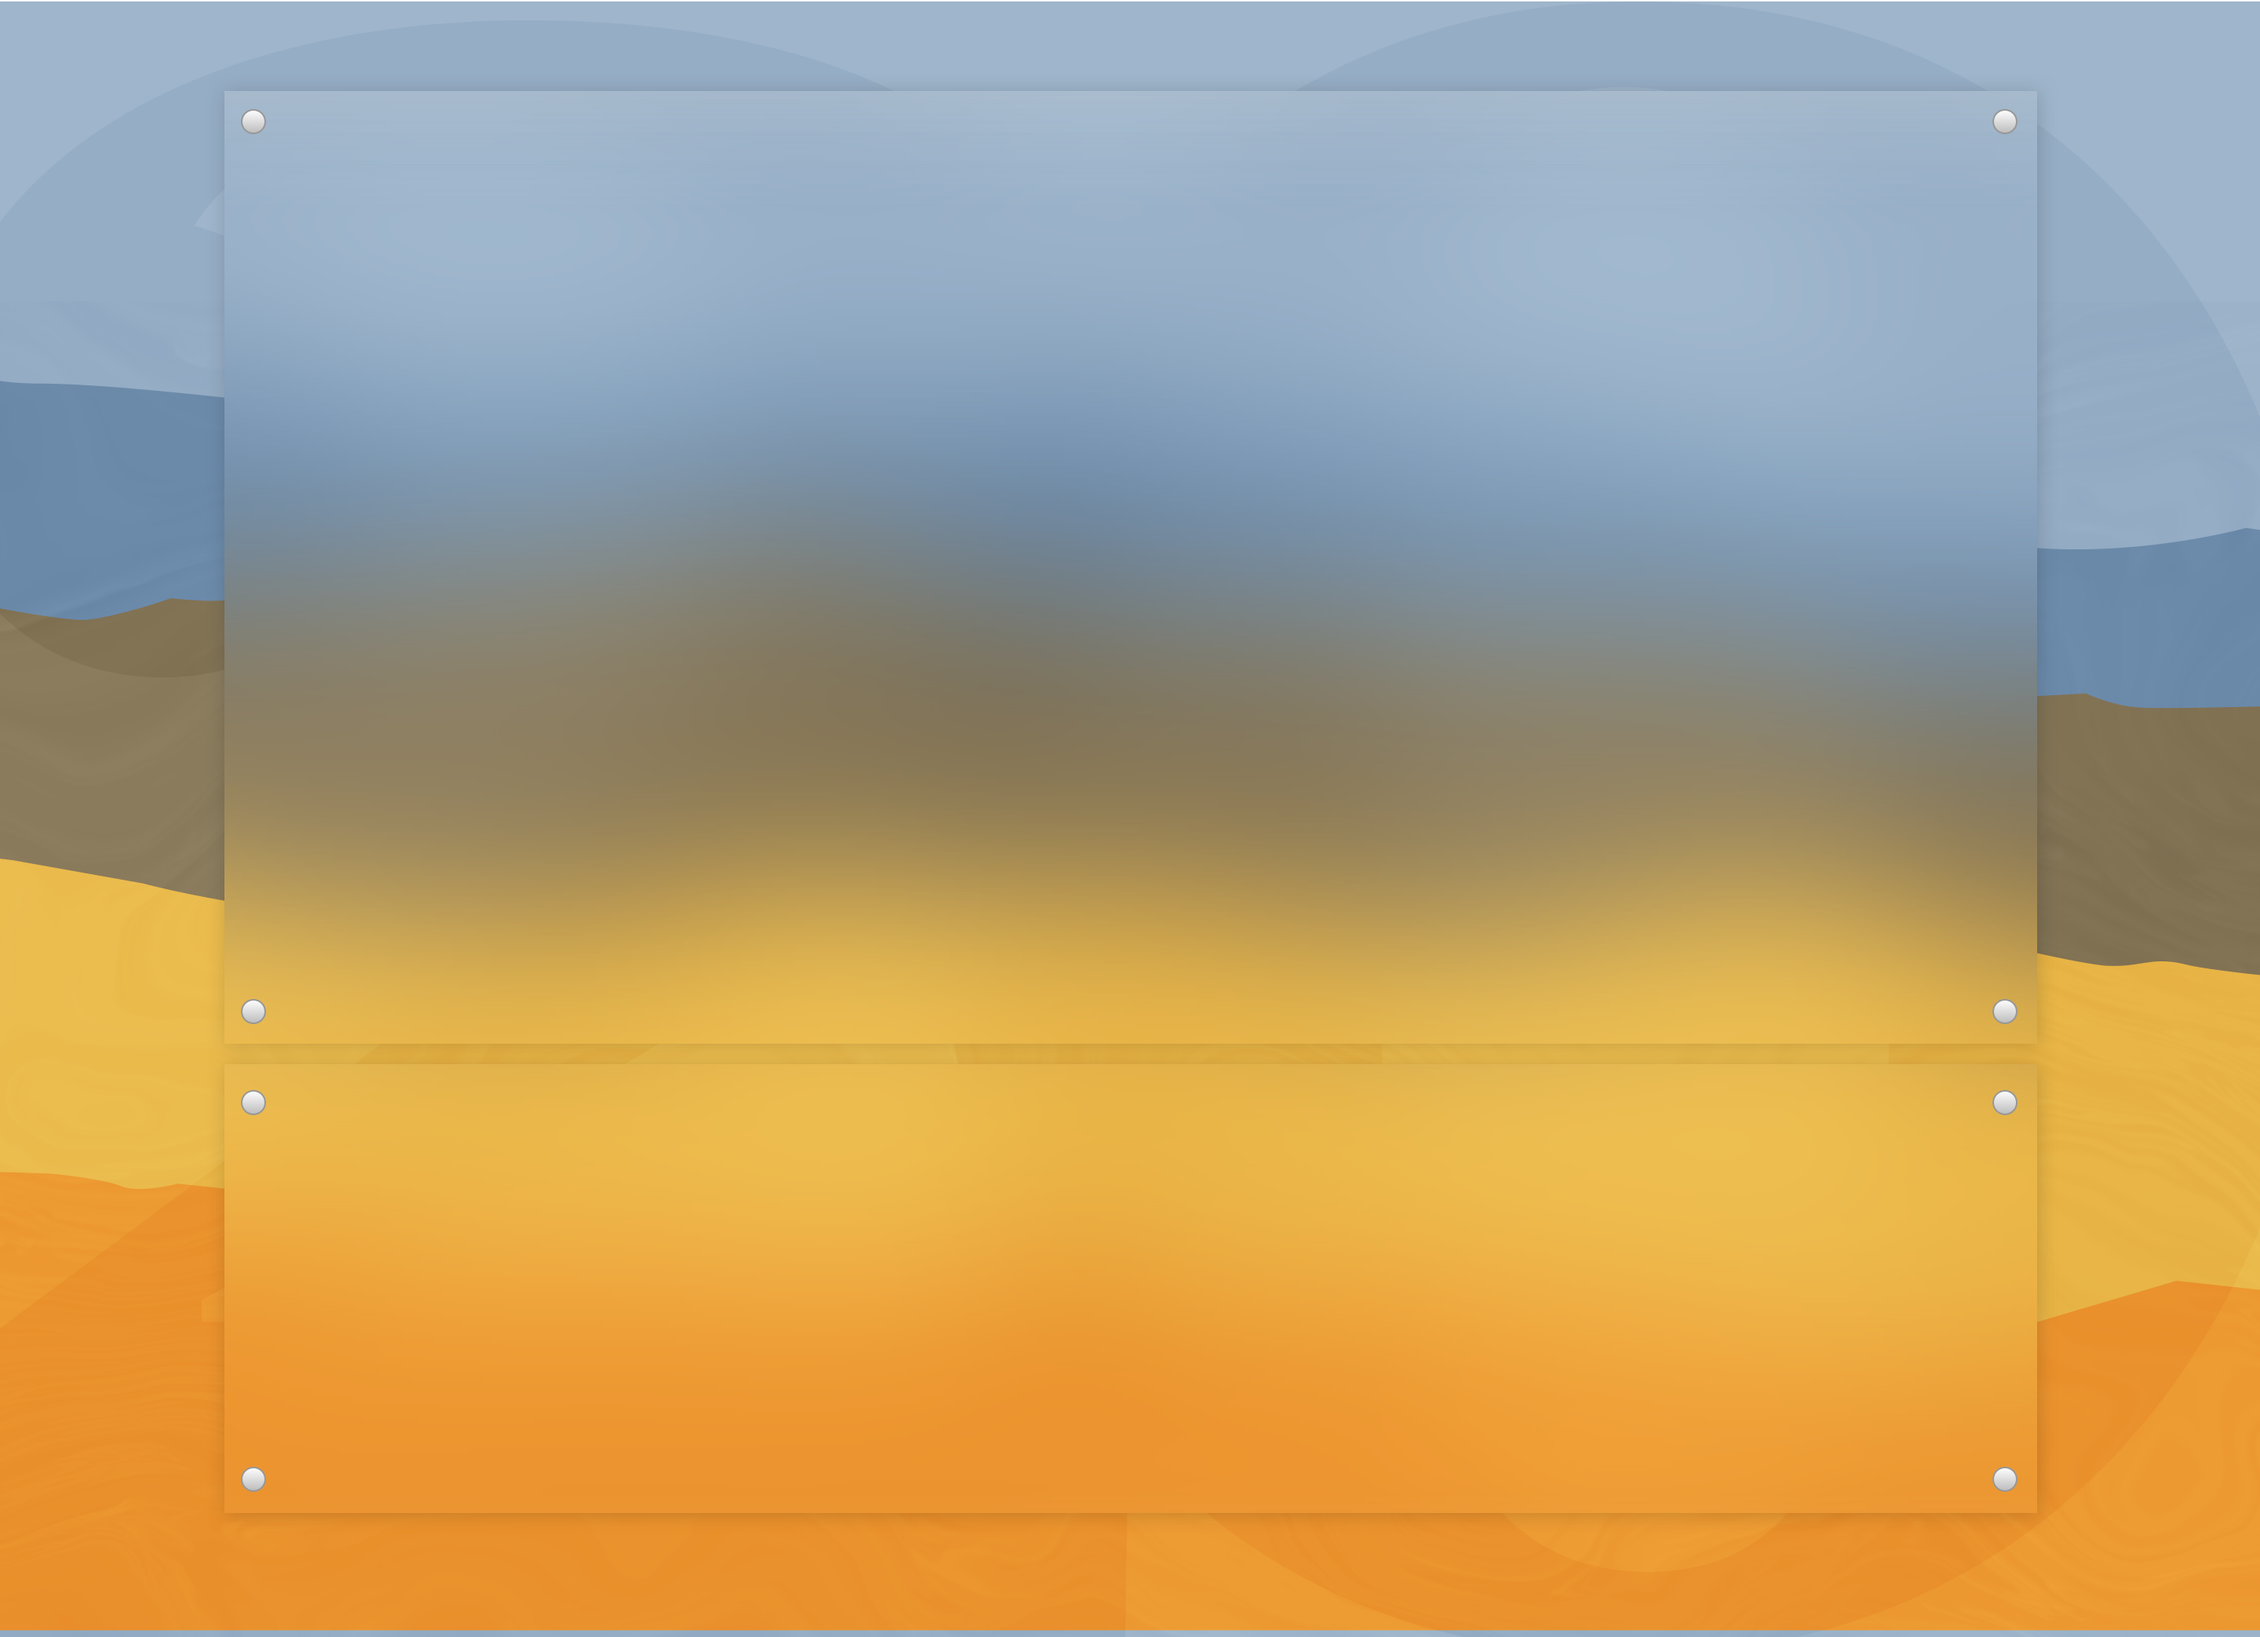
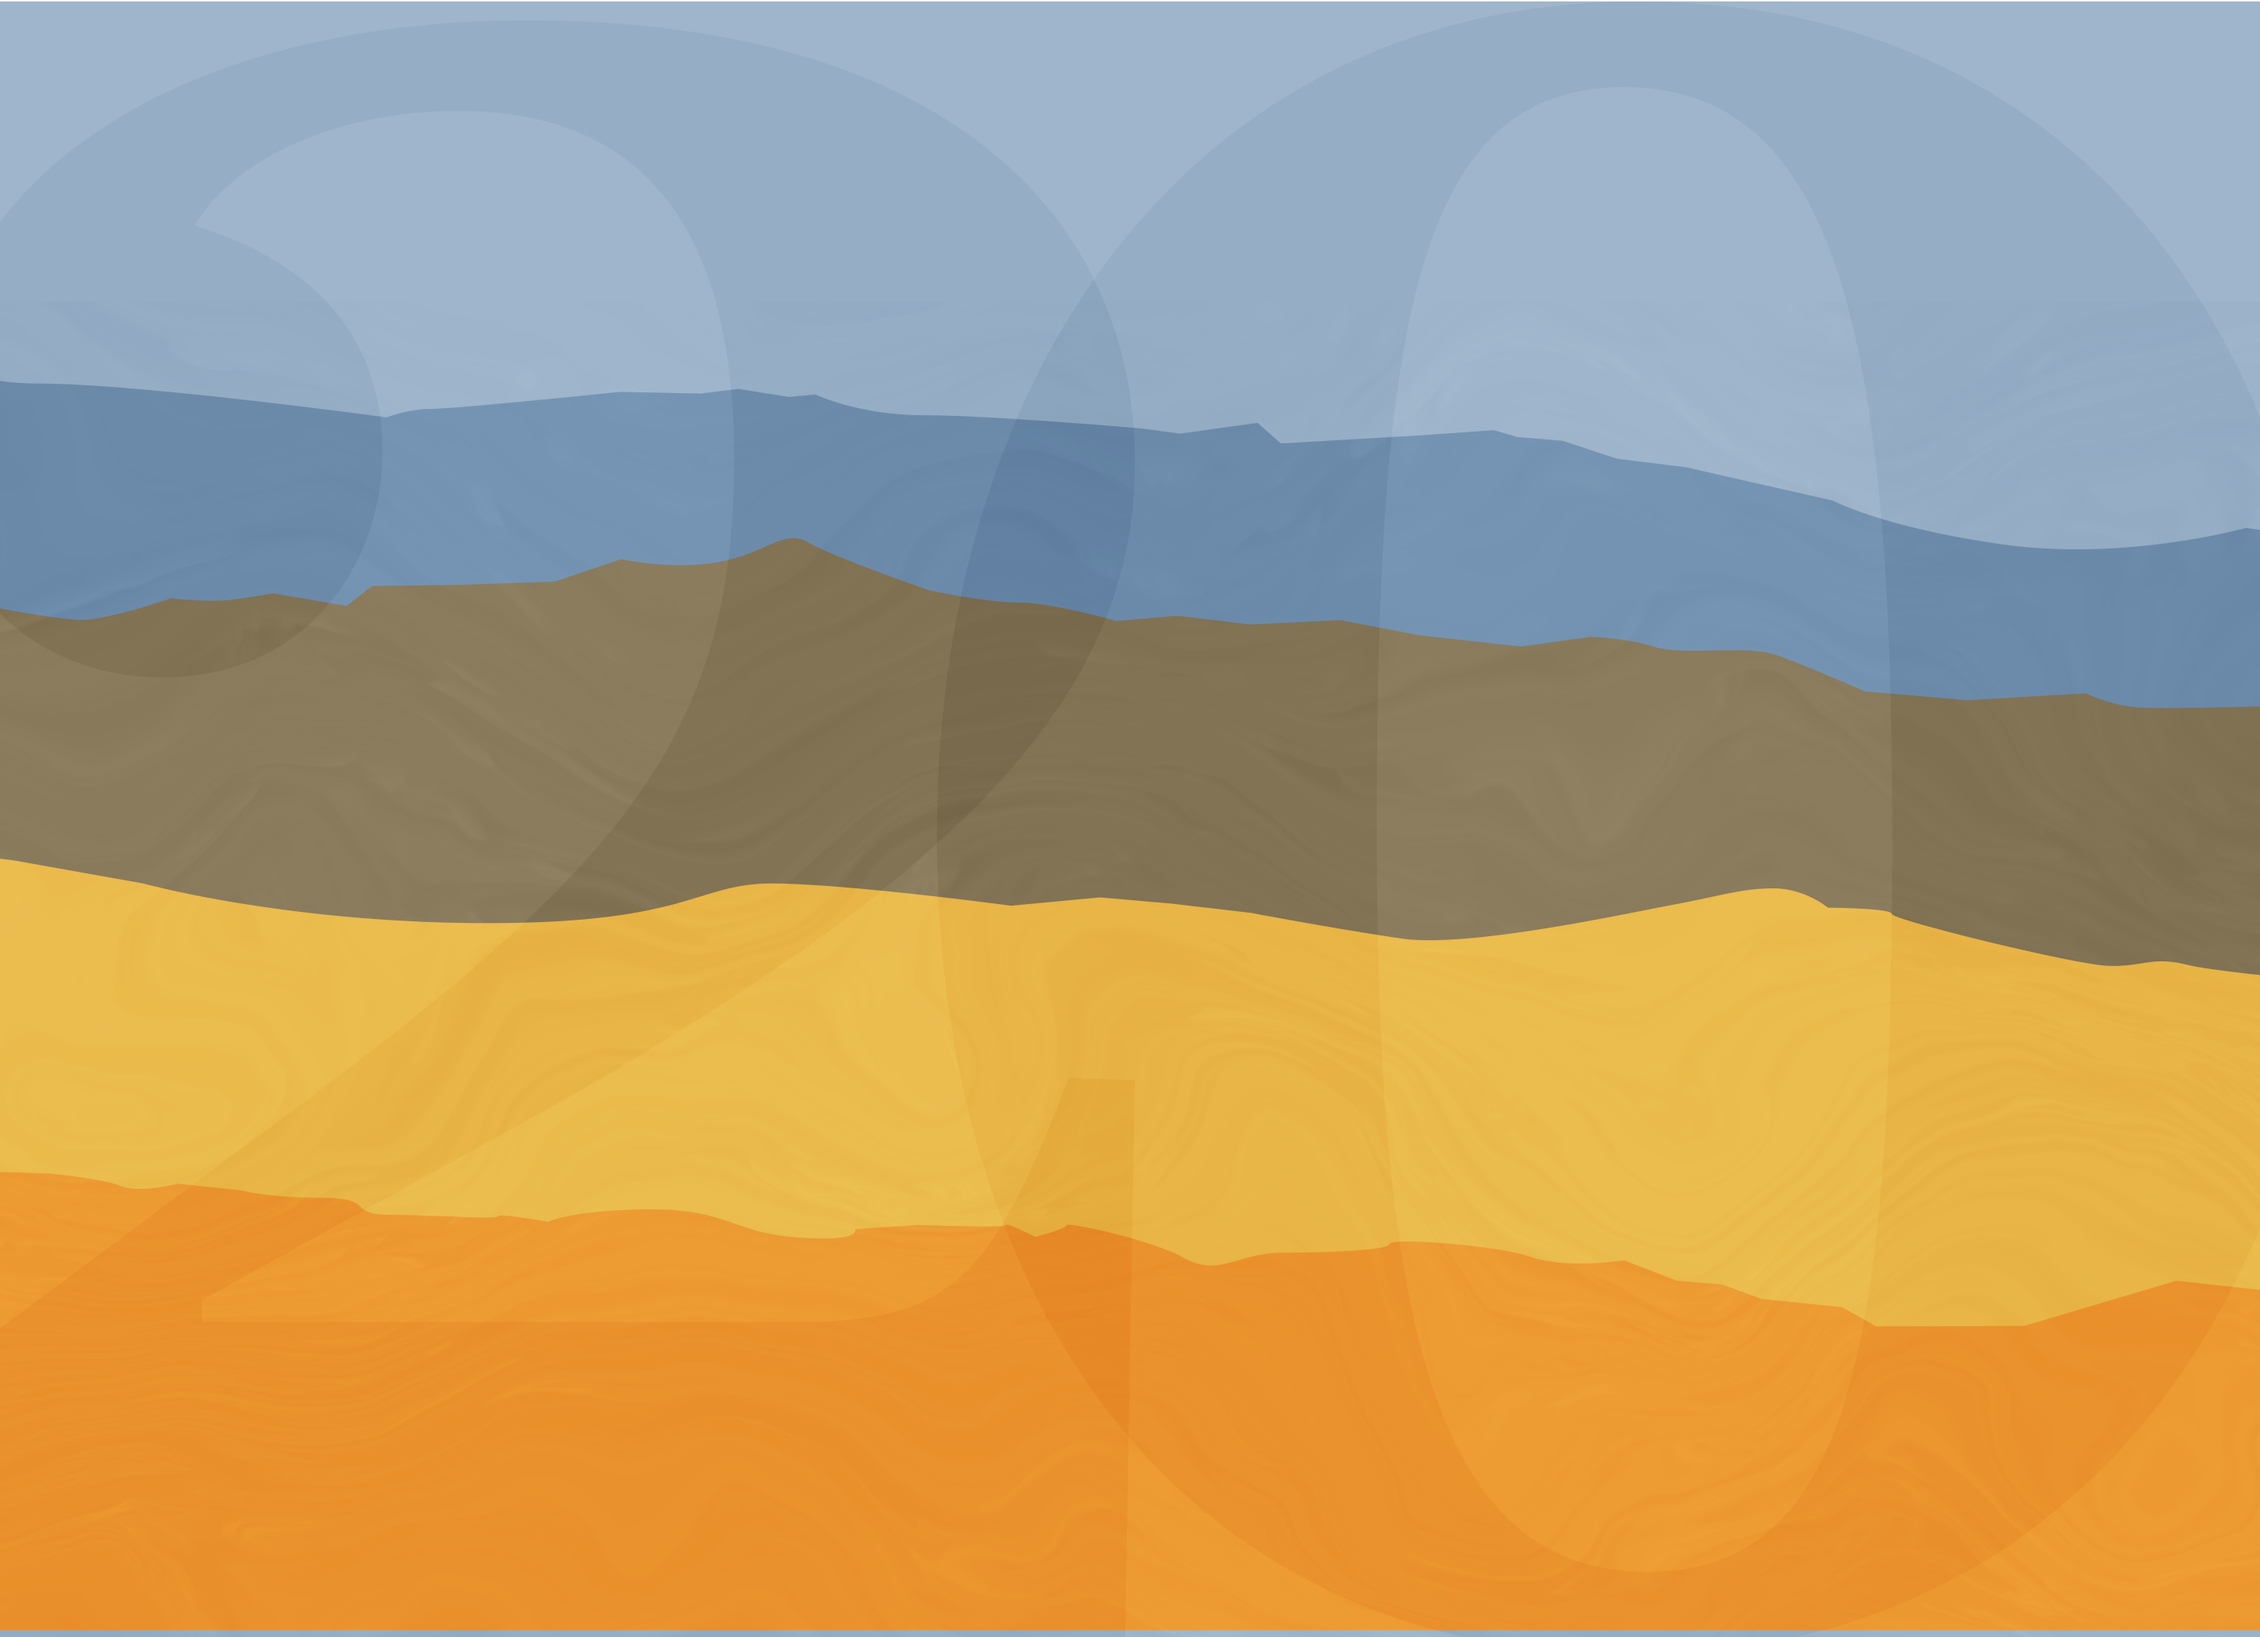
use blurred background for glass

diff --git a/src/app/vision-statement/vision-statement.component.html b/src/app/vision-statement/vision-statement.component.html
@@ -1,16 +1,20 @@
-<div class="vision-statement">
-  <div class="statements">
-    <div class="top first">We can prove that enriched</div>
-    <div class="middle first">human experiences produce stronger</div>
-    <div class="bottom">
-      <span class="first">business results. </span>
-      <span class="second">We are experts in our</span>
-    </div>
-    <div class="top second">solutions, expanding our ripple of</div>
-    <div class="middle">
-      <span class="second">influence. </span>
-      <span class="third">We thrive on growing while</span>
-    </div>
-    <div class="bottom third">staying true to our values.</div>
-  </div>
+<div class="vision-statement glass">
+    <svg width="705px" height="223px" viewBox="0 0 705 223" version="1.1" xmlns="http://www.w3.org/2000/svg" xmlns:xlink="http://www.w3.org/1999/xlink">
+      <defs></defs>
+      <g id="Page-1" stroke="none" stroke-width="1" fill="none" fill-rule="evenodd" font-weight="normal" font-family="ChronicleDeck-Roman, Chronicle Deck" line-spacing="37" letter-spacing="0.186666667" font-size="40">
+          <g id="Home-screen" transform="translate(-339.000000, -748.000000)">
+              <text id="Vision-Statement">
+                  <tspan x="340" y="772" fill="#BE5400">We can prove that enriched</tspan>
+                  <tspan x="340" y="809" fill="#BE5400">    human experiences produce stronger          </tspan>
+                  <tspan x="342.44" y="846" fill="#BE5400">		business results. </tspan>
+                  <tspan x="683.28" y="846" letter-spacing="0.16592592" fill="#285780">We are experts in our </tspan>
+                  <tspan x="340" y="883" letter-spacing="0.16592592" fill="#285780">solutions, expanding our ripple of     </tspan>
+                  <tspan x="342.44" y="920" letter-spacing="0.16592592" fill="#285780">	inﬂuence.</tspan>
+                  <tspan x="536.053333" y="920" letter-spacing="0.16592592" fill="#BE5400"> </tspan>
+                  <tspan x="543.579259" y="920" letter-spacing="0.16592592" fill="#4E4E4E">We thrive on growing while </tspan>
+                  <tspan x="342.44" y="957" letter-spacing="0.16592592" fill="#4E4E4E">									  staying true to our values. </tspan>
+              </text>
+          </g>
+      </g>
+  </svg>
 </div>

diff --git a/src/styles.less b/src/styles.less
@@ -5,15 +5,13 @@
 body {
     margin: 0px;
     padding: 0px;
-    background: rgba(112,138,164,1);
-    background: -moz-linear-gradient(top, rgba(112,138,164,1) 0%, rgba(112,138,164,1) 19%, rgba(239,173,93,1) 89%, rgba(239,173,93,1) 100%);
-    background: -webkit-gradient(left top, left bottom, color-stop(0%, rgba(112,138,164,1)), color-stop(19%, rgba(112,138,164,1)), color-stop(89%, rgba(239,173,93,1)), color-stop(100%, rgba(239,173,93,1)));
-    background: -webkit-linear-gradient(top, rgba(112,138,164,1) 0%, rgba(112,138,164,1) 19%, rgba(239,173,93,1) 89%, rgba(239,173,93,1) 100%);
-    background: -o-linear-gradient(top, rgba(112,138,164,1) 0%, rgba(112,138,164,1) 19%, rgba(239,173,93,1) 89%, rgba(239,173,93,1) 100%);
-    background: -ms-linear-gradient(top, rgba(112,138,164,1) 0%, rgba(112,138,164,1) 19%, rgba(239,173,93,1) 89%, rgba(239,173,93,1) 100%);
-    background: linear-gradient(to bottom, rgba(112,138,164,1) 0%, rgba(112,138,164,1) 19%, rgba(239,173,93,1) 89%, rgba(239,173,93,1) 100%);
-    filter: progid:DXImageTransform.Microsoft.gradient( startColorstr='#708aa4', endColorstr='#efad5d', GradientType=0 );
-
+    width: 100%;
+    height: 100%;
+    min-height: 800px;
+    background-image: url(/assets/background.png);
+    background-size: cover;
+    background-repeat: no-repeat;
+    background-position: center center;  
     font-family: "Chronicle SSm A", "Chronicle SSm B", serif;
 }
 
@@ -21,8 +19,34 @@ body {
     clear: both;
 }
 
+.wall-container {
+    padding: 2em;
+    width: @max-width;
+    margin: 0 auto;
+    font-size: @base-font-size;
+    position: relative;
+    top: @top-offset;
+}
+
 .tag {
     background-image: url(/assets/tag.png);
     border-radius: @tag-radius;
     box-shadow: 0 0 0.2em #575E61;
+}
+
+.glass {
+    z-index: 1;
+    overflow: hidden;
+}
+
+.glass:before {
+    background-image: url(/assets/blurred-background.jpg);
+    position: absolute;
+    z-index: -1;
+    top: 0;
+    bottom: 0;
+    left: 0;
+    right: 0;
+    background-size: cover;
+    content: ' ';
 }

diff --git a/src/app/wall/wall.component.html b/src/app/wall/wall.component.html
@@ -1,17 +1,14 @@
-<div class="wall">
-  <div class="board">
-    <div class="clients-container">
-      <app-clients [totalSlots]="20" [clients]="clients"></app-clients>
-    </div>
-    <div class="wall-label">New Customers</div>
-    <app-tally [defaultValue]="goalTarget" [currentValue]="peopleImpacted"></app-tally>
-    <div class="clear"></div>
-    <div class="wall-label">People Impacted</div>
-    <app-tally [prefixSymbol]="'$'" [defaultValue]="goalTarget" [currentValue]="valueCreated"></app-tally>
-    <div class="clear"></div>      
-    <div class="wall-label">Value Created</div>    
+<div class="board glass">
+  <div class="clients-container">
+    <app-clients [totalSlots]="20" [clients]="clients"></app-clients>
   </div>
+  <div class="wall-label">New Customers</div>
+  <app-tally [defaultValue]="goalTarget" [currentValue]="peopleImpacted"></app-tally>
   <div class="clear"></div>
-  <app-vision-statement></app-vision-statement>
+  <div class="wall-label">People Impacted</div>
+  <app-tally [prefixSymbol]="'$'" [defaultValue]="goalTarget" [currentValue]="valueCreated"></app-tally>
+  <div class="clear"></div>      
+  <div class="wall-label">Value Created</div>    
 </div>
 <div class="clear"></div>
+<app-vision-statement></app-vision-statement>

diff --git a/src/app/vision-statement/vision-statement.component.less b/src/app/vision-statement/vision-statement.component.less
@@ -1,31 +1,14 @@
 @import "../../variables";
 
 .vision-statement {
-    position: absolute;
+    padding: 2em;
     width: @max-width;
-    top: 38em;
-}
-
-.statements {
-    width: 20em;
     margin: 0 auto;
-    font-size: 2em;
-    .first {
-        color: @text-orange;
-    }
-    .second {
-        color: @text-light-blue;
-    }
-    .third {
-        color: @text-dark-blue;
-    }
-    .top {
-        text-align: left;
-    }
-    .middle {
-        text-align: center;
-    }
-    .bottom {
-        text-align: right;
+    font-size: @base-font-size;
+    position: absolute;
+    top: 650px;
+    left: 0;
+    &.glass:before {
+        background-position-y: -650px;
     }
 }

diff --git a/src/app/wall/wall.component.less b/src/app/wall/wall.component.less
@@ -1,18 +1,10 @@
 @import "../../variables";
 
-.wall {
-    background-image: url(/assets/background.png);
-    background-size: cover;
-    background-repeat: no-repeat;
-    background-position: center center;  
-    padding: 3em;
-    width: @max-width;
-    height: @max-height;
-    margin: 0 auto;
-    font-size: @base-font-size;
-    .board {
-        margin: 1em auto;
-        padding: 2em;
+.board {
+    height: 550px;
+    overflow: hidden;
+    &.glass:before {
+        background-position-y: -@top-offset;
     }
 }
 
@@ -24,10 +16,3 @@
     padding-bottom: 1.5em;
     padding-top: 0.25em;
 }
-
-.clients-container {
-    margin-left: 6em;
-    margin-top: 0.5em;
-}
-
-

diff --git a/src/app/app.component.less b/src/app/app.component.less
@@ -1,21 +1,5 @@
 @import "../variables";
 
-.wall {
-    background-image: url(/assets/background.png);
-    background-size: cover;
-    background-repeat: no-repeat;
-    background-position: center center;  
-    padding: 3em;
-    width: @max-width;
-    height: @max-height;
-    margin: 0 auto;
-    font-size: @base-font-size;
-    .board {
-        margin: 1em auto;
-        padding: 2em;
-    }
-}
-
 .wall-label {
     text-align: center;
     text-transform: uppercase;

diff --git a/src/app/flip-tag/flip-tag.component.less b/src/app/flip-tag/flip-tag.component.less
@@ -6,12 +6,12 @@
     width: @tag-size;
     text-align: center;
     vertical-align: middle;
-    margin-left: 1.5em;
+    margin-left: 1.8em;
 }
 .flip-tag {
     padding: 0.3em;
     display: inline-block;
-    margin-left: 0.5em;
+    margin-left: 0.8em;
     a {
         display: inline-block;
         width: @tag-size;

diff --git a/src/variables.less b/src/variables.less
@@ -5,8 +5,9 @@
 @text-dark-blue: #4E4E4E;
 
 //sizes
-@max-width: 72em;
+@top-offset: 80px;
+@max-width: 1200px;
 @max-height: 52em;
-@base-font-size: 18px;
+@base-font-size: 20px;
 @tag-size: @base-font-size * 3.5;
 @tag-radius: @base-font-size * 1.75;

diff --git a/src/index.html b/src/index.html
@@ -2,7 +2,7 @@
 <html lang="en">
 <head>
   <meta charset="utf-8">
-  <title>VisionWall</title>
+  <title>SingleStone Vision Wall</title>
   <base href="/">
 
   <meta name="viewport" content="width=device-width, initial-scale=1">

diff --git a/src/app/clients/clients.component.less b/src/app/clients/clients.component.less
@@ -1,7 +1,7 @@
 @import "../../variables";
 
 .clients {
-    color: rgba(255, 255, 255, 0.3);
+    color: rgba(255, 255, 255, 0.6);
     .bottom-row {
         margin-left: 2.5em;
     }

diff --git a/src/app/tally/tally.component.less b/src/app/tally/tally.component.less
@@ -1,7 +1,7 @@
 @import "../../variables";
 
 .tally{
-    color: rgba(255, 255, 255, 0.3);
+    color: rgba(255, 255, 255, 0.6);
     width: 38em;
     margin: 0 auto;
 

diff --git a/src/app/app.component.html b/src/app/app.component.html
@@ -1,1 +1,3 @@
-<router-outlet></router-outlet>
+<div class="wall-container">
+    <router-outlet></router-outlet>
+</div>
